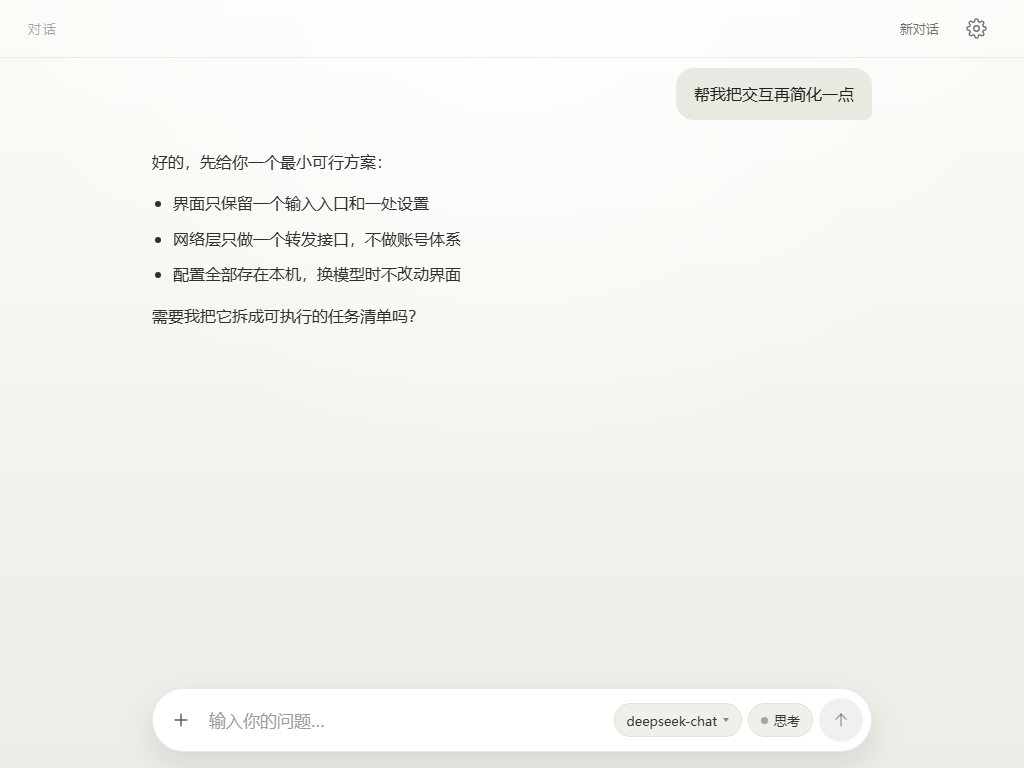
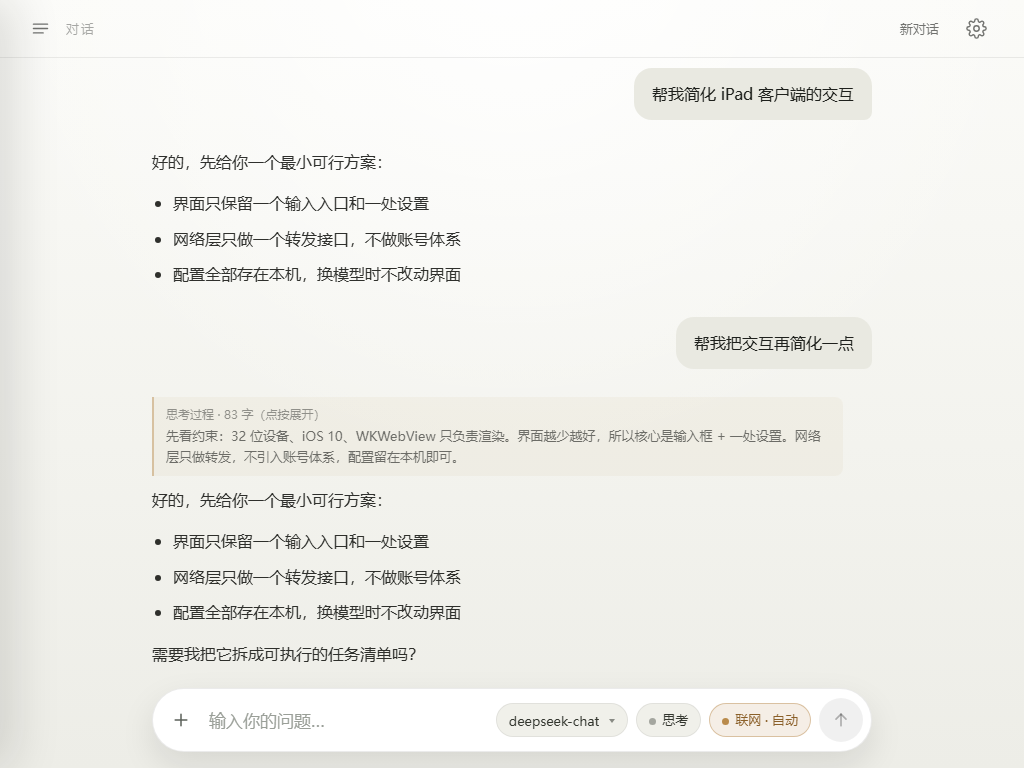
docs: refresh screenshots, bilingual privacy/security; preview demo modes
Screenshots regenerated against the current UI (web-search chip, sources list, markdown
tables); docs/screenshots now covers 01-07 including 05-image which was unused.

PRIVACY.md and SECURITY.md are now English with PRIVACY.zh-CN.md / SECURITY.zh-CN.md
holding the original Chinese text; both READMEs link the matching language.

web/_preview gains ?demo=search and ?demo=table fixtures so the new features can be
screenshotted without a gateway, and stops serializing the inlined app bundle into the
SVG snapshot (the ES5 build made that data URL large enough to fail to load).

diff --git a/ios/Resources/web/index.html b/ios/Resources/web/index.html
@@ -1518,12 +1518,21 @@ svg { display: block; }
             }
             if (op === "chat.start") {
               var rid_1 = payload.requestId;
-              var text_1 = MOCK_REPLY;
-              var reasoning_1 = MOCK_REASONING;
+              var searching = DEMO_MODE === "search";
+              var text_1 = DEMO_MODE === "table" ? MOCK_TABLE_REPLY : searching ? MOCK_SEARCH_REPLY : MOCK_REPLY;
+              var reasoning_1 = DEMO_MODE === "table" || searching ? "" : MOCK_REASONING;
               var ri_1 = 0;
               var i_1 = 0;
               if (this.mockTimer) {
                 window.clearInterval(this.mockTimer);
+              }
+              if (searching) {
+                window.setTimeout(function() {
+                  self.receive({ type: "searching", requestId: rid_1 });
+                }, 150);
+                window.setTimeout(function() {
+                  self.receive({ type: "sources", requestId: rid_1, items: MOCK_SOURCES });
+                }, 500);
               }
               this.mockTimer = window.setInterval(function() {
                 if (ri_1 < reasoning_1.length) {
@@ -1645,11 +1654,46 @@ svg { display: block; }
         model: "deepseek-chat",
         models: ["deepseek-chat", "deepseek-reasoner", "gpt-4o-mini"],
         thinking: { enabled: false, level: 0, param: "reasoning_effort", onValue: "high", offValue: "" },
+        search: {
+          mode: "auto",
+          url: "https://api.exa.ai/search",
+          key: "",
+          header: "x-api-key",
+          prefix: "",
+          body: '{"query":"{{query}}","numResults":{{num}},"contents":{"text":{"maxCharacters":800}}}',
+          num: 5
+        },
         fontSize: 16
       };
       var MOCK_MODELS = ["deepseek-chat", "deepseek-reasoner", "gpt-4o-mini", "qwen-max"];
       var MOCK_REPLY = "\u597D\u7684\uFF0C\u5148\u7ED9\u4F60\u4E00\u4E2A\u6700\u5C0F\u53EF\u884C\u65B9\u6848\uFF1A\n\n- \u754C\u9762\u53EA\u4FDD\u7559\u4E00\u4E2A\u8F93\u5165\u5165\u53E3\u548C\u4E00\u5904\u8BBE\u7F6E\n- \u7F51\u7EDC\u5C42\u53EA\u505A\u4E00\u4E2A\u8F6C\u53D1\u63A5\u53E3\uFF0C\u4E0D\u505A\u8D26\u53F7\u4F53\u7CFB\n- \u914D\u7F6E\u5168\u90E8\u5B58\u5728\u672C\u673A\uFF0C\u6362\u6A21\u578B\u65F6\u4E0D\u6539\u52A8\u754C\u9762\n\n\u9700\u8981\u6211\u628A\u5B83\u62C6\u6210\u53EF\u6267\u884C\u7684\u4EFB\u52A1\u6E05\u5355\u5417\uFF1F";
       var MOCK_REASONING = "\u5148\u770B\u7EA6\u675F\uFF1A32 \u4F4D\u8BBE\u5907\u3001iOS 10\u3001WKWebView \u53EA\u8D1F\u8D23\u6E32\u67D3\u3002\u754C\u9762\u8D8A\u5C11\u8D8A\u597D\uFF0C\u6240\u4EE5\u6838\u5FC3\u662F\u8F93\u5165\u6846 + \u4E00\u5904\u8BBE\u7F6E\u3002\u7F51\u7EDC\u5C42\u53EA\u505A\u8F6C\u53D1\uFF0C\u4E0D\u5F15\u5165\u8D26\u53F7\u4F53\u7CFB\uFF0C\u914D\u7F6E\u7559\u5728\u672C\u673A\u5373\u53EF\u3002";
+      var DEMO_MODE = (function() {
+        var m = typeof location !== "undefined" ? /[?&]demo=([a-z]+)/.exec(location.search) : null;
+        return m ? m[1] : "";
+      })();
+      var MOCK_SOURCES = [
+        {
+          index: 1,
+          title: "\u7AEF\u4FA7\u63A8\u7406\u82AF\u7247\u53D1\u5E03\uFF1A\u80FD\u6548\u6BD4\u63D0\u5347 3 \u500D",
+          url: "https://example.com/news/chip",
+          snippet: "\u65B0\u82AF\u7247\u4E3B\u6253\u4F4E\u529F\u8017\u63A8\u7406\uFF0C\u5B98\u65B9\u7ED9\u51FA\u7684\u6570\u636E\u662F\u540C\u7B49\u529F\u8017\u4E0B\u541E\u5410\u63D0\u5347\u4E09\u500D\u3002"
+        },
+        {
+          index: 2,
+          title: "\u517C\u5BB9 32 \u4F4D ARM \u7684\u5F00\u6E90\u63A8\u7406\u8FD0\u884C\u65F6",
+          url: "https://example.com/blog/arm32-runtime",
+          snippet: "\u9879\u76EE README \u8BF4\u660E\u5B83\u652F\u6301 armv7 \u4E0E arm64\uFF0C\u5E76\u7ED9\u51FA\u4E86\u8001\u8BBE\u5907\u4E0A\u7684\u57FA\u51C6\u6570\u636E\u3002"
+        },
+        {
+          index: 3,
+          title: "\u5728\u8001 iPad \u4E0A\u8DD1\u5927\u6A21\u578B\u662F\u4EC0\u4E48\u4F53\u9A8C",
+          url: "https://example.com/post/ipad-llm",
+          snippet: "\u4F5C\u8005\u7528\u4E00\u53F0 iPad 4 \u505A\u4E86\u4E24\u5468\u5B9E\u6D4B\uFF0C\u8BB0\u5F55\u4E86\u53D1\u70ED\u3001\u8017\u7535\u4E0E\u54CD\u5E94\u901F\u5EA6\u3002"
+        }
+      ];
+      var MOCK_SEARCH_REPLY = "\u6839\u636E\u521A\u624D\u68C0\u7D22\u5230\u7684\u4E09\u6761\u8D44\u6599\uFF0C\u4ECA\u5929\u503C\u5F97\u5173\u6CE8\u7684\u79D1\u6280\u65B0\u95FB\u662F\uFF1A\n\n1. \u6709\u5382\u5546\u53D1\u5E03\u4E86\u65B0\u4E00\u4EE3**\u7AEF\u4FA7\u63A8\u7406\u82AF\u7247**\uFF0C\u4E3B\u6253\u540C\u7B49\u529F\u8017\u4E0B\u66F4\u9AD8\u7684\u541E\u5410[1]\uFF1B\n2. \u5F00\u6E90\u793E\u533A\u653E\u51FA\u4E86\u517C\u5BB9 **32 \u4F4D ARM** \u7684\u63A8\u7406\u8FD0\u884C\u65F6\uFF0C\u9644\u5E26\u4E86\u8001\u8BBE\u5907\u57FA\u51C6[2]\uFF1B\n3. \u4E00\u7BC7\u590D\u76D8\u6587\u7AE0\u8BB0\u5F55\u4E86\u5728 iPad 4 \u4E0A\u8DD1\u5927\u6A21\u578B\u4E24\u5468\u7684\u771F\u5B9E\u4F53\u9A8C[3]\u3002\n\n\u4F60\u66F4\u5173\u5FC3\u54EA\u4E00\u6761\uFF1F\u6211\u53EF\u4EE5\u628A\u7EC6\u8282\u5C55\u5F00\uFF0C\u6216\u8005\u7EE7\u7EED\u68C0\u7D22\u5B83\u7684\u540E\u7EED\u62A5\u9053\u3002";
+      var MOCK_TABLE_REPLY = "\u4E09\u6863\u65B9\u6848\u5BF9\u6BD4\u5982\u4E0B\uFF1A\n\n| \u65B9\u6848 | \u6210\u672C | \u9002\u5408\u573A\u666F |\n|:---|:---:|---:|\n| \u53EA\u6539\u4EA4\u4E92 | \u4F4E | \u73B0\u6709\u4F53\u9A8C\u5FAE\u8C03 |\n| \u91CD\u505A\u9996\u9875 | \u4E2D | \u4FE1\u606F\u67B6\u6784\u6DF7\u4E71 |\n| \u6362\u6280\u672F\u6808 | \u9AD8 | \u957F\u671F\u7EF4\u62A4 |\n\n\u6267\u884C\u987A\u5E8F\uFF1A\n\n- [x] \u68B3\u7406\u73B0\u6709\u4EA4\u4E92\n- [ ] \u7EDF\u4E00\u8BBE\u7F6E\u5165\u53E3\n- [ ] \u8865\u4E0A\u6765\u6E90\u5217\u8868\n\n\u9700\u8981\u6211\u628A\u7B2C\u4E8C\u6863\u62C6\u6210\u5177\u4F53\u4EFB\u52A1\u5417\uFF1F";
     }
   });
 

diff --git a/web/src/bridge.ts b/web/src/bridge.ts
@@ -129,12 +129,22 @@ export class Bridge {
     }
     if (op === 'chat.start') {
       const rid = payload.requestId;
-      const text = MOCK_REPLY;
-      const reasoning = MOCK_REASONING;
+      const searching = DEMO_MODE === 'search';
+      const text =
+        DEMO_MODE === 'table' ? MOCK_TABLE_REPLY : searching ? MOCK_SEARCH_REPLY : MOCK_REPLY;
+      const reasoning = DEMO_MODE === 'table' || searching ? '' : MOCK_REASONING;
       let ri = 0;
       let i = 0;
       if (this.mockTimer) {
         window.clearInterval(this.mockTimer);
+      }
+      if (searching) {
+        window.setTimeout(function () {
+          self.receive({ type: 'searching', requestId: rid });
+        }, 150);
+        window.setTimeout(function () {
+          self.receive({ type: 'sources', requestId: rid, items: MOCK_SOURCES });
+        }, 500);
       }
       this.mockTimer = window.setInterval(function () {
         if (ri < reasoning.length) {
@@ -261,6 +271,15 @@ export const MOCK_CONFIG: any = {
   model: 'deepseek-chat',
   models: ['deepseek-chat', 'deepseek-reasoner', 'gpt-4o-mini'],
   thinking: { enabled: false, level: 0, param: 'reasoning_effort', onValue: 'high', offValue: '' },
+  search: {
+    mode: 'auto',
+    url: 'https://api.exa.ai/search',
+    key: '',
+    header: 'x-api-key',
+    prefix: '',
+    body: '{"query":"{{query}}","numResults":{{num}},"contents":{"text":{"maxCharacters":800}}}',
+    num: 5
+  },
   fontSize: 16
 };
 
@@ -277,3 +296,51 @@ const MOCK_REASONING =
   '先看约束：32 位设备、iOS 10、WKWebView 只负责渲染。' +
   '界面越少越好，所以核心是输入框 + 一处设置。' +
   '网络层只做转发，不引入账号体系，配置留在本机即可。';
+
+/* Preview-only demo modes, selected with ?demo=search / ?demo=table. Used by
+   web/_preview/capture.html to screenshot the newer features without a gateway. */
+const DEMO_MODE = (function () {
+  const m = typeof location !== 'undefined' ? /[?&]demo=([a-z]+)/.exec(location.search) : null;
+  return m ? m[1] : '';
+}());
+
+const MOCK_SOURCES = [
+  {
+    index: 1,
+    title: '端侧推理芯片发布：能效比提升 3 倍',
+    url: 'https://example.com/news/chip',
+    snippet: '新芯片主打低功耗推理，官方给出的数据是同等功耗下吞吐提升三倍。'
+  },
+  {
+    index: 2,
+    title: '兼容 32 位 ARM 的开源推理运行时',
+    url: 'https://example.com/blog/arm32-runtime',
+    snippet: '项目 README 说明它支持 armv7 与 arm64，并给出了老设备上的基准数据。'
+  },
+  {
+    index: 3,
+    title: '在老 iPad 上跑大模型是什么体验',
+    url: 'https://example.com/post/ipad-llm',
+    snippet: '作者用一台 iPad 4 做了两周实测，记录了发热、耗电与响应速度。'
+  }
+];
+
+const MOCK_SEARCH_REPLY =
+  '根据刚才检索到的三条资料，今天值得关注的科技新闻是：\n\n' +
+  '1. 有厂商发布了新一代**端侧推理芯片**，主打同等功耗下更高的吞吐[1]；\n' +
+  '2. 开源社区放出了兼容 **32 位 ARM** 的推理运行时，附带了老设备基准[2]；\n' +
+  '3. 一篇复盘文章记录了在 iPad 4 上跑大模型两周的真实体验[3]。\n\n' +
+  '你更关心哪一条？我可以把细节展开，或者继续检索它的后续报道。';
+
+const MOCK_TABLE_REPLY =
+  '三档方案对比如下：\n\n' +
+  '| 方案 | 成本 | 适合场景 |\n' +
+  '|:---|:---:|---:|\n' +
+  '| 只改交互 | 低 | 现有体验微调 |\n' +
+  '| 重做首页 | 中 | 信息架构混乱 |\n' +
+  '| 换技术栈 | 高 | 长期维护 |\n\n' +
+  '执行顺序：\n\n' +
+  '- [x] 梳理现有交互\n' +
+  '- [ ] 统一设置入口\n' +
+  '- [ ] 补上来源列表\n\n' +
+  '需要我把第二档拆成具体任务吗？';

diff --git a/web/_preview/capture.html b/web/_preview/capture.html
@@ -77,7 +77,8 @@
     var mode = parts[2] || '';
     var w = viewport === 'portrait' ? 768 : 1024;
     var h = viewport === 'portrait' ? 1024 : 768;
-    var demo = (mode === 'chat' || mode === 'models' || mode === 'settings' || mode === 'drawer') ? '?demo=' + mode : '';
+    var demoModes = ['chat', 'models', 'settings', 'drawer', 'search', 'table'];
+    var demo = demoModes.indexOf(mode) >= 0 ? '?demo=' + mode : '';
 
     log('START ' + shot + ' ' + w + 'x' + h);
     var iframe = document.createElement('iframe');
@@ -182,7 +183,15 @@
       /* Live DOM property values (typed textarea content) are not reflected in
          the serialized markup; copy them into the DOM before serializing. */
       syncFormValues(doc);
-      var html = new XMLSerializer().serializeToString(doc.documentElement);
+      /* The inlined app bundle lives in a <script> inside the document; it is
+         dead weight for a static image and, since the ES5 build, large enough
+         to blow up the SVG data URL. Screenshot a script-free clone. */
+      var clone = doc.documentElement.cloneNode(true);
+      var scripts = clone.querySelectorAll('script');
+      for (var si = 0; si < scripts.length; si++) {
+        if (scripts[si].parentNode) { scripts[si].parentNode.removeChild(scripts[si]); }
+      }
+      var html = new XMLSerializer().serializeToString(clone);
       if (html.indexOf('xmlns=') === -1) {
         html = html.replace('<html', '<html xmlns="http://www.w3.org/1999/xhtml"');
       }

diff --git a/PRIVACY.md b/PRIVACY.md
@@ -1,28 +1,30 @@
-# 隐私说明
+# Privacy
 
-一句话：**这个 App 不收集任何东西，也没有服务器。**
+English | [简体中文](PRIVACY.zh-CN.md)
 
-## 存了什么、存在哪
+In one sentence: **this app collects nothing and has no server of its own.**
 
-| 数据 | 位置 | 说明 |
+## What is stored, and where
+
+| Data | Location | Notes |
 | --- | --- | --- |
-| API Key、provider、Base URL、端口、模型名、字体大小、思考档位 | App 沙盒 `Library/Application Support/ChatAI/config` | 仅本机，卸载即清除 |
-| 会话与消息（含 320px 图片缩略图） | App 沙盒 `Library/Application Support/ChatAI/store.json` | 仅本机；最多保留每个会话最近 120 条、消息最多 200 条 |
-| 调试日志 | App 沙盒内日志文件 | 仅本机，用于排查问题 |
+| API key, provider, base URL, port, model name, font size, reasoning level | app sandbox `Library/Application Support/ChatAI/config` | device only, removed when the app is deleted |
+| Sessions and messages (including 320 px image thumbnails) | app sandbox `Library/Application Support/ChatAI/store.json` | device only; history is capped at the latest 120 entries per session and 200 messages |
+| Debug log | a log file inside the app sandbox | device only, used for troubleshooting |
 
-## 发出的请求
+## Requests it makes
 
-- 只有你在 App 内**主动发送消息**时，App 才会向你**自己配置**的接口发起请求；
-- 请求内容：你输入的文字、选中的图片（原图，最长边压到 1568px）、以及对话历史；
-- 请求目标：你填的 Base URL / 端口，本项目作者**不参与**、也看不到这些请求。
+- A request is sent **only when you press send**, and only to the endpoint **you configured**;
+- Request content: the text you typed, the image you attached (downscaled so the long side is at most 1568 px), and the conversation history;
+- Destination: the base URL and port you entered. The author of this project is not involved and cannot see those requests.
 
-## 不做什么
+## What it does not do
 
-- 无账号体系、无登录；
-- 无遥测、无埋点、无崩溃上报；
-- 不读取通讯录、定位、剪贴板；
-- 不向任何第三方服务器上传数据（除了你自己配置的那个接口）。
+- no account, no login;
+- no telemetry, no analytics, no crash reporting;
+- no access to contacts, location or the clipboard;
+- no upload to any third-party server, other than the endpoint you configured yourself.
 
-## 注意事项
+## Keep in mind
 
-你填写的接口提供方可能会记录你的请求，这取决于对方的隐私政策，与本项目无关。请勿在不可信的第三方网关里传输敏感信息。
+The provider you configure may log your requests according to its own privacy policy; that is outside this project. Do not send sensitive data through a gateway you do not trust.

diff --git a/SECURITY.md b/SECURITY.md
@@ -1,20 +1,22 @@
-# 安全说明
+# Security
 
-## 报告问题
+English | [简体中文](SECURITY.zh-CN.md)
 
-- 一般 Bug / 功能建议：走 [Issues](../../issues)；
-- 安全问题（例如能导致 Key 泄露、任意代码执行、绕过沙盒等）：请**不要**开公开 issue，改用 GitHub 的私有漏洞报告（Security → Report a vulnerability），或先私信作者。
+## Reporting
 
-## 请不要在公开场合贴这些内容
+- Ordinary bugs and feature requests: open an [issue](../../issues);
+- Security problems (a leaked key, arbitrary code execution, sandbox escape, …): please **do not** open a public issue. Use GitHub's private vulnerability report (Security → Report a vulnerability), or contact the author directly first.
 
-- 你的 **API Key**、`Authorization` 头、完整的 Base URL（带 token 的那种）；
-- 包含个人信息的会话截图（聊天内容、图片）；
-- 你的设备序列号、Apple ID 相关信息。
+## Please keep these out of public threads
 
-发 issue 时如果需要贴日志，请先把 Key、域名、消息内容涂掉。
+- your **API key**, `Authorization` headers, or a full base URL that carries a token;
+- screenshots of conversations that contain personal data;
+- device serial numbers or anything tied to your Apple ID.
 
-## 已知的安全边界
+If you must attach a log to an issue, redact the key, the host name and the message content first.
 
-- API Key 以明文形式保存在 App 沙盒（`Library/Application Support/ChatAI/`），**未额外加密**。这是本机私用工具的取舍：越狱设备上任何有 root 权限的程序都能读到它；
-- 安装包**未签名**，安装依赖 AppSync 或自签名，请只从本仓库 Releases 下载，不要使用来路不明的「二次打包版」；
-- 本项目不内置任何代理、不转发请求，你的流量直接发往你配置的接口。
+## Known security boundaries
+
+- the API key is stored **in plain text** inside the app sandbox (`Library/Application Support/ChatAI/`), with no extra encryption. That is the trade-off of a local single-user tool: on a jailbroken device any process running as root can read it;
+- the IPA is **unsigned**; installing it relies on AppSync or re-signing. Download it only from this repository's Releases, never from an unknown "repackaged" build;
+- this project ships no proxy and forwards nothing — your traffic goes straight to the endpoint you configured.

diff --git a/PRIVACY.zh-CN.md b/PRIVACY.zh-CN.md
@@ -1,0 +1,30 @@
+# 隐私说明
+
+[English](PRIVACY.md) | 简体中文
+
+一句话：**这个 App 不收集任何东西，也没有服务器。**
+
+## 存了什么、存在哪
+
+| 数据 | 位置 | 说明 |
+| --- | --- | --- |
+| API Key、provider、Base URL、端口、模型名、字体大小、思考档位 | App 沙盒 `Library/Application Support/ChatAI/config` | 仅本机，卸载即清除 |
+| 会话与消息（含 320px 图片缩略图） | App 沙盒 `Library/Application Support/ChatAI/store.json` | 仅本机；最多保留每个会话最近 120 条、消息最多 200 条 |
+| 调试日志 | App 沙盒内日志文件 | 仅本机，用于排查问题 |
+
+## 发出的请求
+
+- 只有你在 App 内**主动发送消息**时，App 才会向你**自己配置**的接口发起请求；
+- 请求内容：你输入的文字、选中的图片（原图，最长边压到 1568px）、以及对话历史；
+- 请求目标：你填的 Base URL / 端口，本项目作者**不参与**、也看不到这些请求。
+
+## 不做什么
+
+- 无账号体系、无登录；
+- 无遥测、无埋点、无崩溃上报；
+- 不读取通讯录、定位、剪贴板；
+- 不向任何第三方服务器上传数据（除了你自己配置的那个接口）。
+
+## 注意事项
+
+你填写的接口提供方可能会记录你的请求，这取决于对方的隐私政策，与本项目无关。请勿在不可信的第三方网关里传输敏感信息。

diff --git a/SECURITY.zh-CN.md b/SECURITY.zh-CN.md
@@ -1,0 +1,22 @@
+# 安全说明
+
+[English](SECURITY.md) | 简体中文
+
+## 报告问题
+
+- 一般 Bug / 功能建议：走 [Issues](../../issues)；
+- 安全问题（例如能导致 Key 泄露、任意代码执行、绕过沙盒等）：请**不要**开公开 issue，改用 GitHub 的私有漏洞报告（Security → Report a vulnerability），或先私信作者。
+
+## 请不要在公开场合贴这些内容
+
+- 你的 **API Key**、`Authorization` 头、完整的 Base URL（带 token 的那种）；
+- 包含个人信息的会话截图（聊天内容、图片）；
+- 你的设备序列号、Apple ID 相关信息。
+
+发 issue 时如果需要贴日志，请先把 Key、域名、消息内容涂掉。
+
+## 已知的安全边界
+
+- API Key 以明文形式保存在 App 沙盒（`Library/Application Support/ChatAI/`），**未额外加密**。这是本机私用工具的取舍：越狱设备上任何有 root 权限的程序都能读到它；
+- 安装包**未签名**，安装依赖 AppSync 或自签名，请只从本仓库 Releases 下载，不要使用来路不明的「二次打包版」；
+- 本项目不内置任何代理、不转发请求，你的流量直接发往你配置的接口。

diff --git a/README.md b/README.md
@@ -35,6 +35,10 @@ It **ships no API and no keys**. You point it at your own OpenAI-compatible serv
 | --- | --- | --- | --- |
 | <img src="docs/screenshots/01-home.png" width="220"> | <img src="docs/screenshots/02-thinking.png" width="260"> | <img src="docs/screenshots/03-sessions.png" width="260"> | <img src="docs/screenshots/04-settings.png" width="260"> |
 
+| Web search with sources | Markdown tables and task lists | Image input |
+| --- | --- | --- |
+| <img src="docs/screenshots/06-search.png" width="260"> | <img src="docs/screenshots/07-table.png" width="420"> | <img src="docs/screenshots/05-image.png" width="260"> |
+
 ## Features
 
 - **Any OpenAI-compatible API** — configurable provider, base URL, port and key; model list fetched live;
@@ -83,7 +87,7 @@ It **ships no API and no keys**. You point it at your own OpenAI-compatible serv
 - images are uploaded only when you press send, and only to the endpoint you configured;
 - deleting the app wipes everything.
 
-See [PRIVACY.md](PRIVACY.md) (Chinese).
+See [PRIVACY.md](PRIVACY.md) and [SECURITY.md](SECURITY.md). 中文版：[隐私说明](PRIVACY.zh-CN.md) · [安全说明](SECURITY.zh-CN.md)
 
 ## Build
 

diff --git a/README.zh-CN.md b/README.zh-CN.md
@@ -35,6 +35,10 @@
 | --- | --- | --- | --- |
 | <img src="docs/screenshots/01-home.png" width="220"> | <img src="docs/screenshots/02-thinking.png" width="260"> | <img src="docs/screenshots/03-sessions.png" width="260"> | <img src="docs/screenshots/04-settings.png" width="260"> |
 
+| 联网搜索（带来源列表） | Markdown 表格与任务列表 | 图片发送 |
+| --- | --- | --- |
+| <img src="docs/screenshots/06-search.png" width="260"> | <img src="docs/screenshots/07-table.png" width="420"> | <img src="docs/screenshots/05-image.png" width="260"> |
+
 ## 特性
 
 - **任意 OpenAI 兼容接口**：自定义 provider / Base URL / 端口 / API Key，模型列表自动拉取；
@@ -83,7 +87,7 @@
 - 图片仅在你点击发送时，随请求发往你配置的接口；
 - 卸载 App 即清除全部数据。
 
-详见 [PRIVACY.md](PRIVACY.md)。
+详见[隐私说明](PRIVACY.zh-CN.md)与[安全说明](SECURITY.zh-CN.md)；English: [PRIVACY.md](PRIVACY.md) · [SECURITY.md](SECURITY.md)。
 
 ## 构建
 
